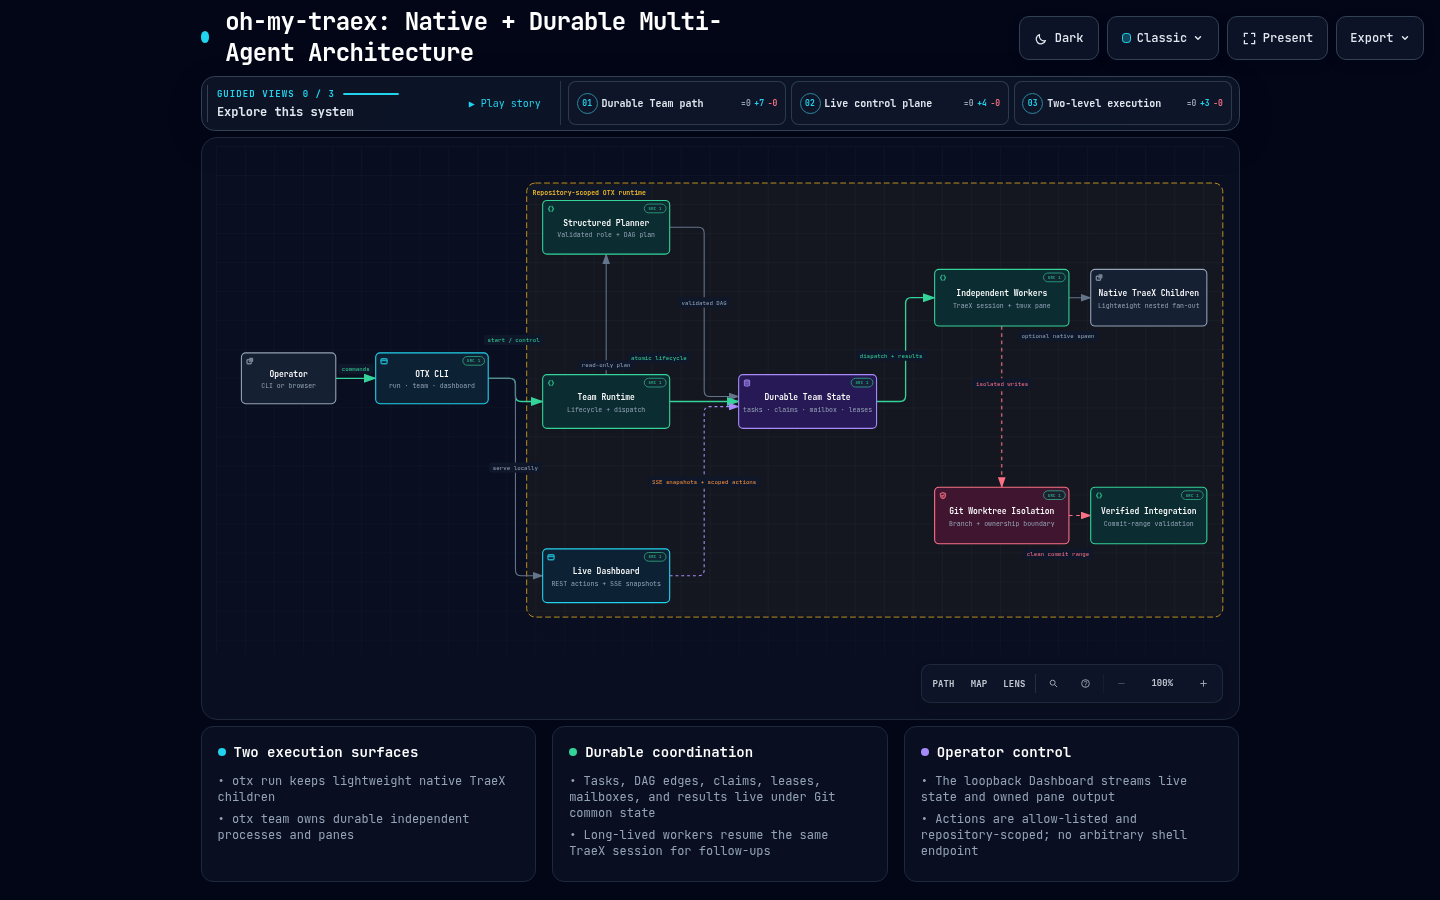
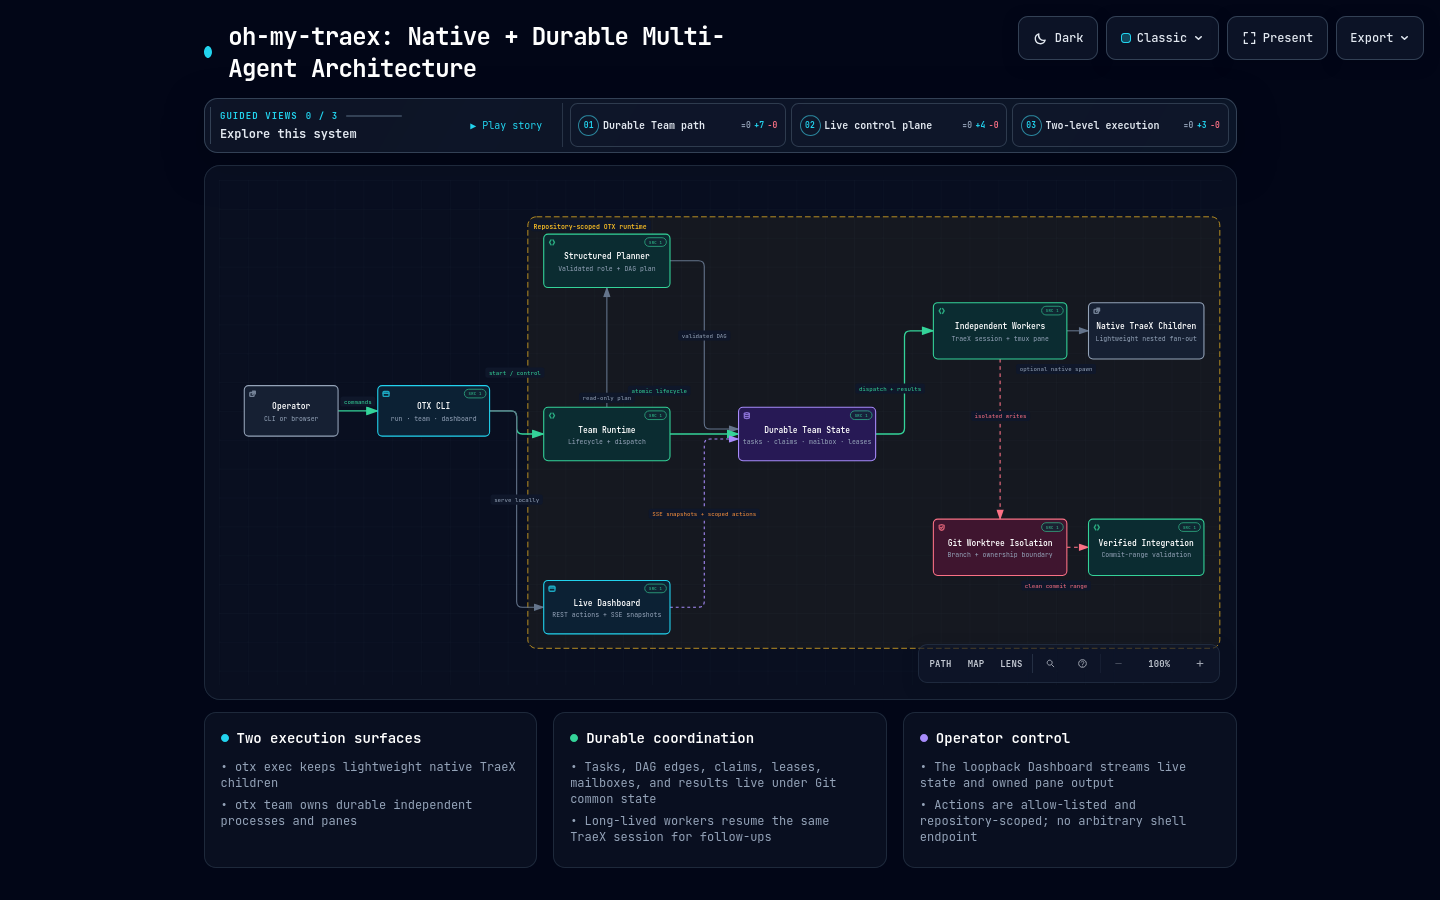
feat(cli): make exec the canonical command (#21)

diff --git a/test/args.test.js b/test/args.test.js
@@ -2,31 +2,37 @@ import test from 'node:test';
 import assert from 'node:assert/strict';
 import { parseArgs } from '../src/args.js';
 
-test('parses a run with orchestration options', () => {
-  const parsed = parseArgs(['run', '-n', '3', '--mode', 'aggressive', '--model', 'GPT-5.5', 'ship', 'it']);
-  assert.equal(parsed.command, 'run');
+test('parses exec with orchestration options', () => {
+  const parsed = parseArgs(['exec', '-n', '3', '--mode', 'aggressive', '--model', 'GPT-5.5', 'ship', 'it']);
+  assert.equal(parsed.command, 'exec');
   assert.equal(parsed.task, 'ship it');
   assert.equal(parsed.options.workers, 3);
   assert.equal(parsed.options.mode, 'aggressive');
   assert.equal(parsed.options.model, 'GPT-5.5');
 });
 
-test('defaults to run when the first token is an option', () => {
+test('defaults to exec when the first token is an option', () => {
   const parsed = parseArgs(['--workers=2', '--', 'review', '--all']);
-  assert.equal(parsed.command, 'run');
+  assert.equal(parsed.command, 'exec');
   assert.equal(parsed.task, 'review --all');
   assert.equal(parsed.options.workers, 2);
 });
 
+test('keeps run as a compatibility alias for exec', () => {
+  const parsed = parseArgs(['run', 'ship', 'it']);
+  assert.equal(parsed.command, 'exec');
+  assert.equal(parsed.task, 'ship it');
+});
+
 test('rejects unsafe fanout', () => {
-  assert.throws(() => parseArgs(['run', '--workers', '7', 'task']), /1 to 6/);
+  assert.throws(() => parseArgs(['exec', '--workers', '7', 'task']), /1 to 6/);
 });
 
 test('parses dashboard UI mode', () => {
-  const parsed = parseArgs(['run', '--ui', 'dashboard', 'inspect agents']);
+  const parsed = parseArgs(['exec', '--ui', 'dashboard', 'inspect agents']);
   assert.equal(parsed.options.ui, 'dashboard');
 });
 
 test('rejects unknown UI modes', () => {
-  assert.throws(() => parseArgs(['run', '--ui', 'windows', 'task']), /none or dashboard/);
+  assert.throws(() => parseArgs(['exec', '--ui', 'windows', 'task']), /none or dashboard/);
 });

diff --git a/test/cli.test.js b/test/cli.test.js
@@ -5,7 +5,7 @@ import { spawnSync } from 'node:child_process';
 test('dry-run renders a safe TraeX exec command without starting a session', () => {
   const result = spawnSync(
     process.execPath,
-    ['src/cli.js', 'run', '--dry-run', '--read-only', '-n', '2', 'audit the API'],
+    ['src/cli.js', 'exec', '--dry-run', '--read-only', '-n', '2', 'audit the API'],
     { cwd: new URL('..', import.meta.url), encoding: 'utf8' },
   );
 
@@ -17,10 +17,21 @@ test('dry-run renders a safe TraeX exec command without starting a session', () 
   assert.match(result.stdout, /audit the API/);
 });
 
+test('run remains a compatibility alias for exec', () => {
+  const result = spawnSync(
+    process.execPath,
+    ['src/cli.js', 'run', '--dry-run', 'audit the API'],
+    { cwd: new URL('..', import.meta.url), encoding: 'utf8' },
+  );
+
+  assert.equal(result.status, 0, result.stderr);
+  assert.match(result.stdout, /traex exec --skip-git-repo-check/);
+});
+
 test('dashboard dry-run reports the planned UI without requiring tmux', () => {
   const result = spawnSync(
     process.execPath,
-    ['src/cli.js', 'run', '--dry-run', '--ui', 'dashboard', 'audit the API'],
+    ['src/cli.js', 'exec', '--dry-run', '--ui', 'dashboard', 'audit the API'],
     { cwd: new URL('..', import.meta.url), encoding: 'utf8' },
   );
 
@@ -31,7 +42,7 @@ test('dashboard dry-run reports the planned UI without requiring tmux', () => {
 test('dashboard mode rejects JSON exec output', () => {
   const result = spawnSync(
     process.execPath,
-    ['src/cli.js', 'run', '--ui', 'dashboard', '--json', 'audit the API'],
+    ['src/cli.js', 'exec', '--ui', 'dashboard', '--json', 'audit the API'],
     { cwd: new URL('..', import.meta.url), encoding: 'utf8' },
   );
 

diff --git a/src/cli.js b/src/cli.js
@@ -14,7 +14,8 @@ import { detectTraeCapabilities, permissionArgs, TRAE_PLANNER_SANDBOX, TRAE_WORK
 const HELP = `oh-my-traex (otx) - TraeX-native multi-agent orchestration
 
 Usage:
-  otx run [options] "task"
+  otx exec [options] "task"
+  otx run [options] "task"       Alias for otx exec
   otx prompt [options] "task"
   otx team [N:role] [options] "task"
   otx team list
@@ -43,8 +44,8 @@ Options:
   -h, --help                Show this help
 
 Examples:
-  otx run "Implement login rate limiting and tests"
-  otx run -n 3 --mode conservative "Review this repository for security issues"
+  otx exec "Implement login rate limiting and tests"
+  otx exec -n 3 --mode conservative "Review this repository for security issues"
   otx prompt "Refactor the parser without changing behavior"`;
 
 export async function main(argv = process.argv.slice(2)) {
@@ -55,7 +56,7 @@ export async function main(argv = process.argv.slice(2)) {
     if (options.help || command === 'help') return print(HELP);
     if (command === 'roles') return print(roleCatalog());
     if (command === 'doctor') return doctor();
-    if (!['run', 'prompt'].includes(command)) throw new Error(`Unknown command: ${command}`);
+    if (!['exec', 'prompt'].includes(command)) throw new Error(`Unknown command: ${command}`);
     if (!task) throw new Error(`${command} requires a task.`);
     if (options.ui === 'dashboard' && options.json) {
       throw new Error('--json cannot be used with --ui dashboard.');

diff --git a/src/args.js b/src/args.js
@@ -2,7 +2,8 @@ const MODES = new Set(['conservative', 'balanced', 'aggressive']);
 
 export function parseArgs(argv) {
   const args = [...argv];
-  const command = args[0] && !args[0].startsWith('-') ? args.shift() : 'run';
+  const requestedCommand = args[0] && !args[0].startsWith('-') ? args.shift() : 'exec';
+  const command = requestedCommand === 'run' ? 'exec' : requestedCommand;
   const options = { workers: 4, mode: 'balanced', cwd: process.cwd(), ui: 'none', passthrough: [] };
   const taskParts = [];
 

diff --git a/assets/oh-my-traex-architecture.html b/assets/oh-my-traex-architecture.html
@@ -5417,7 +5417,7 @@
           <h3>Two execution surfaces</h3>
         </div>
         <ul>
-          <li>&bull; otx run keeps lightweight native TraeX children</li>
+          <li>&bull; otx exec keeps lightweight native TraeX children</li>
           <li>&bull; otx team owns durable independent processes and panes</li>
         </ul>
       </div>

diff --git a/README.en.md b/README.en.md
@@ -15,7 +15,7 @@ A TraeX-native orchestration layer inspired by `oh-my-codex`: keep lightweight n
 
 </div>
 
-> **Current status:** `main` ships two execution paths: native child-agent orchestration through `otx run`, and durable independent workers through `otx team`. The Team runtime includes structured planning, task DAGs, claim leases, durable mailboxes, dynamic membership, safe integration, and cleanup. A local REST/SSE Dashboard exposes the same runtime state as a focused control plane.
+> **Current status:** `main` ships two execution paths: native child-agent orchestration through `otx exec`, and durable independent workers through `otx team`. The Team runtime includes structured planning, task DAGs, claim leases, durable mailboxes, dynamic membership, safe integration, and cleanup. A local REST/SSE Dashboard exposes the same runtime state as a focused control plane.
 
 ## System architecture
 
@@ -37,7 +37,7 @@ otx doctor
 Start lightweight native-child orchestration:
 
 ```bash
-otx run -n 3 --mode balanced "Review this repository and implement the approved fixes"
+otx exec -n 3 --mode balanced "Review this repository and implement the approved fixes"
 ```
 
 Start a durable Team from inside tmux:
@@ -59,14 +59,14 @@ TraeX already provides native child agents. Complex engineering work still needs
 
 oh-my-traex therefore keeps two levels:
 
-1. `otx run` uses native TraeX children for low-overhead, in-session fan-out.
+1. `otx exec` uses native TraeX children for low-overhead, in-session fan-out; `otx run` remains a compatibility alias.
 2. `otx team` starts independent TraeX processes; every first-level worker receives its own tmux pane, session, branch, and worktree.
 3. A Team worker may still use native TraeX children internally, producing durable first-level workers with lightweight nested agents.
 4. The leader owns decomposition, file ownership, verification, and final integration.
 
 ## Why not use only native children?
 
-| Capability | `otx run` | `otx team` |
+| Capability | `otx exec` | `otx team` |
 |---|---|---|
 | Execution unit | Native TraeX child thread | Independent TraeX process and session |
 | Visibility | TraeX session / optional tmux viewer | One tmux pane per worker plus Web Dashboard |
@@ -77,7 +77,7 @@ oh-my-traex therefore keeps two levels:
 | Recovery | Native TraeX behavior | Pane, PID, heartbeat, activity, task, mailbox, and Git diagnostics |
 | Best fit | Exploration, review, small parallel work | Long-running implementation and recoverable delivery |
 
-The two surfaces complement each other. `otx run` stays light; `otx team` provides the durable orchestration layer associated with `oh-my-codex`.
+The two surfaces complement each other. `otx exec` stays light; `otx team` provides the durable orchestration layer associated with `oh-my-codex`.
 
 ## Live Dashboard
 
@@ -142,8 +142,9 @@ Example state tree:
 
 | Command | Purpose |
 |---|---|
-| `otx run <task>` | Start a TraeX leader using native children |
-| `otx run --ui dashboard <task>` | Start the TraeX app-server/session viewer combination |
+| `otx exec <task>` | Start a TraeX leader using native children |
+| `otx exec --ui dashboard <task>` | Start the TraeX app-server/session viewer combination |
+| `otx run <task>` | Compatibility alias for `otx exec` |
 | `otx prompt <task>` | Print the leader orchestration prompt |
 | `otx team [N:role] <task>` | Start durable independent Team workers |
 | `otx team [N:role] --headless <task>` | Start a Team with the process backend for CI and containers |
